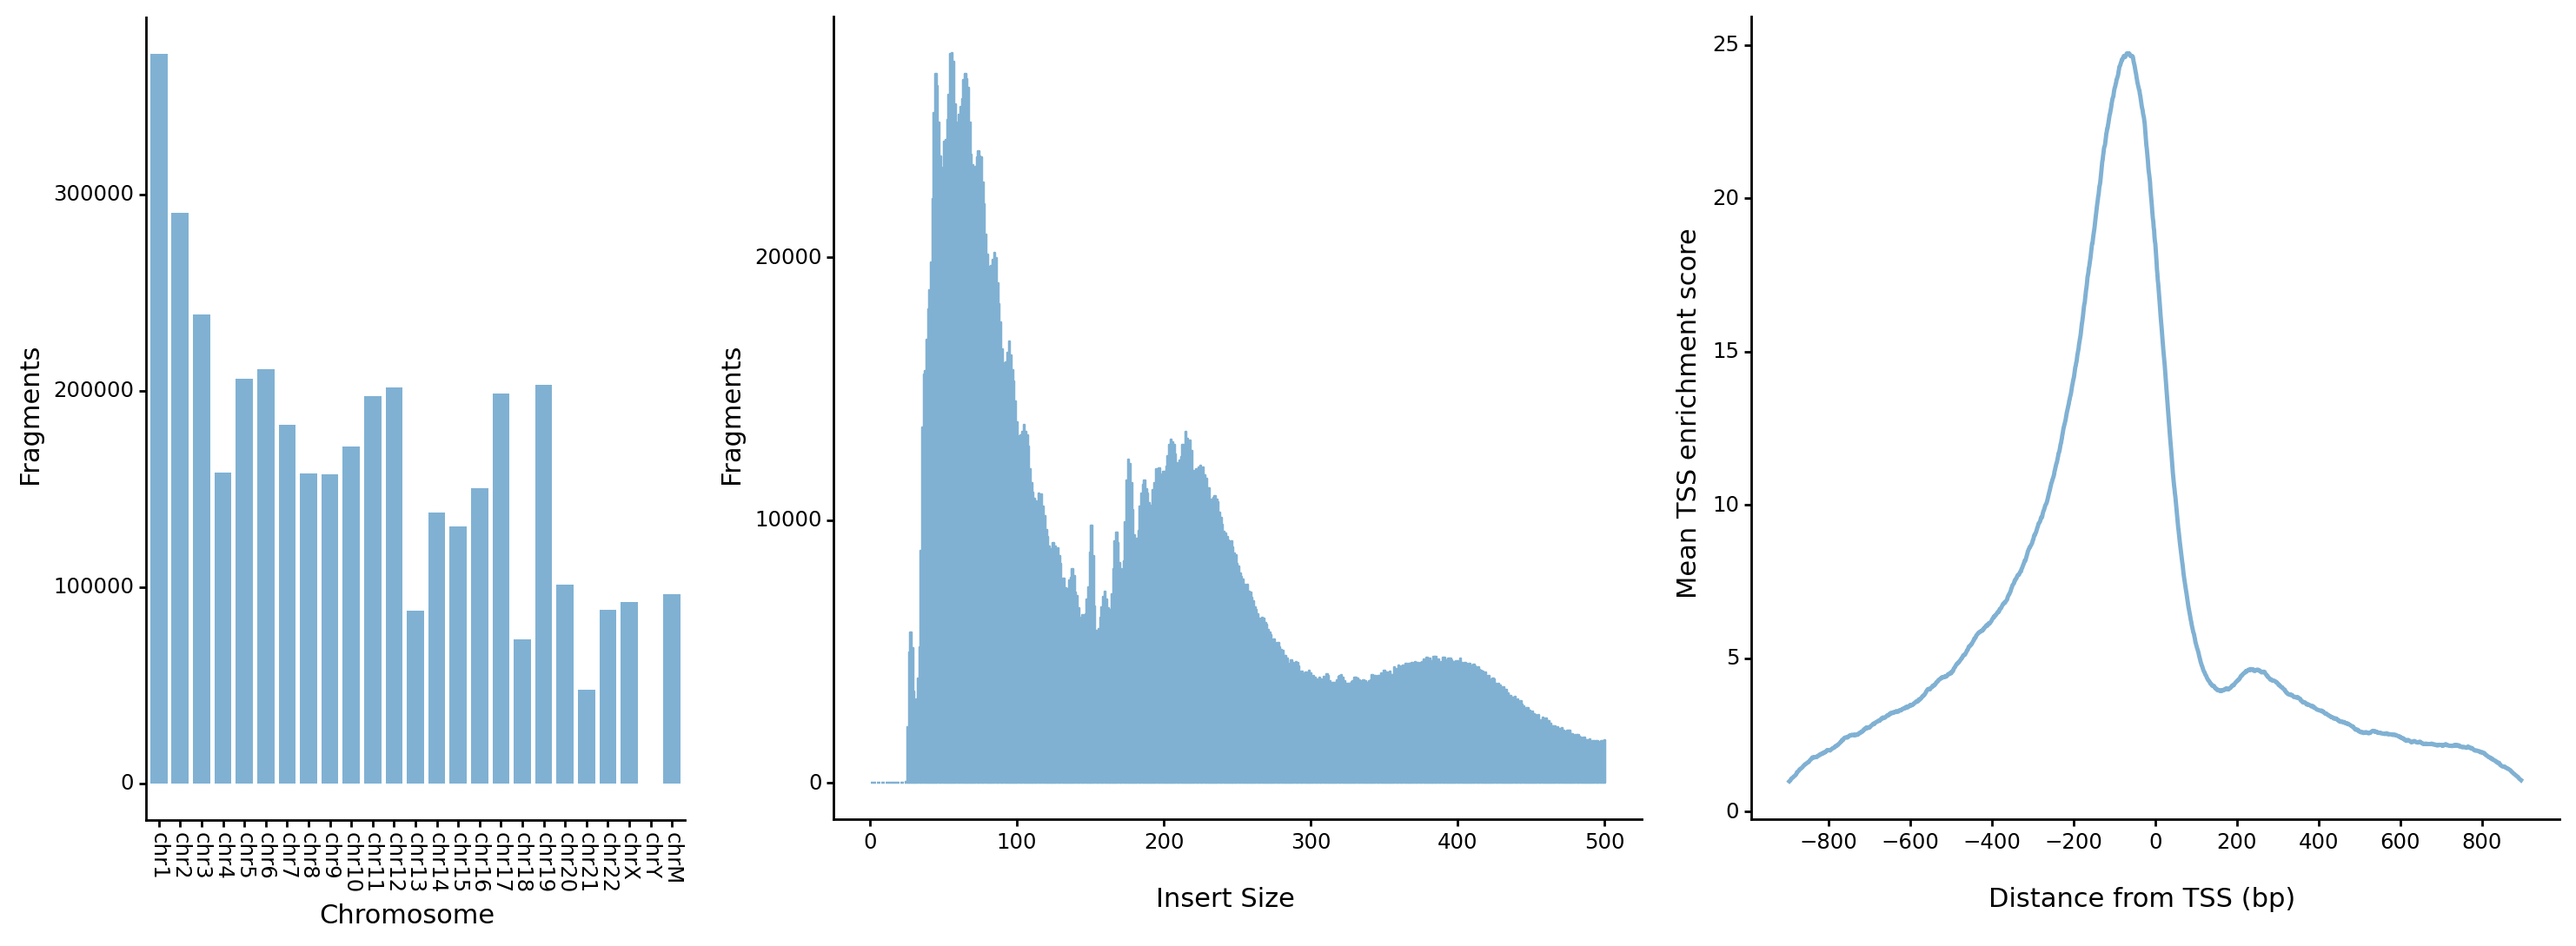
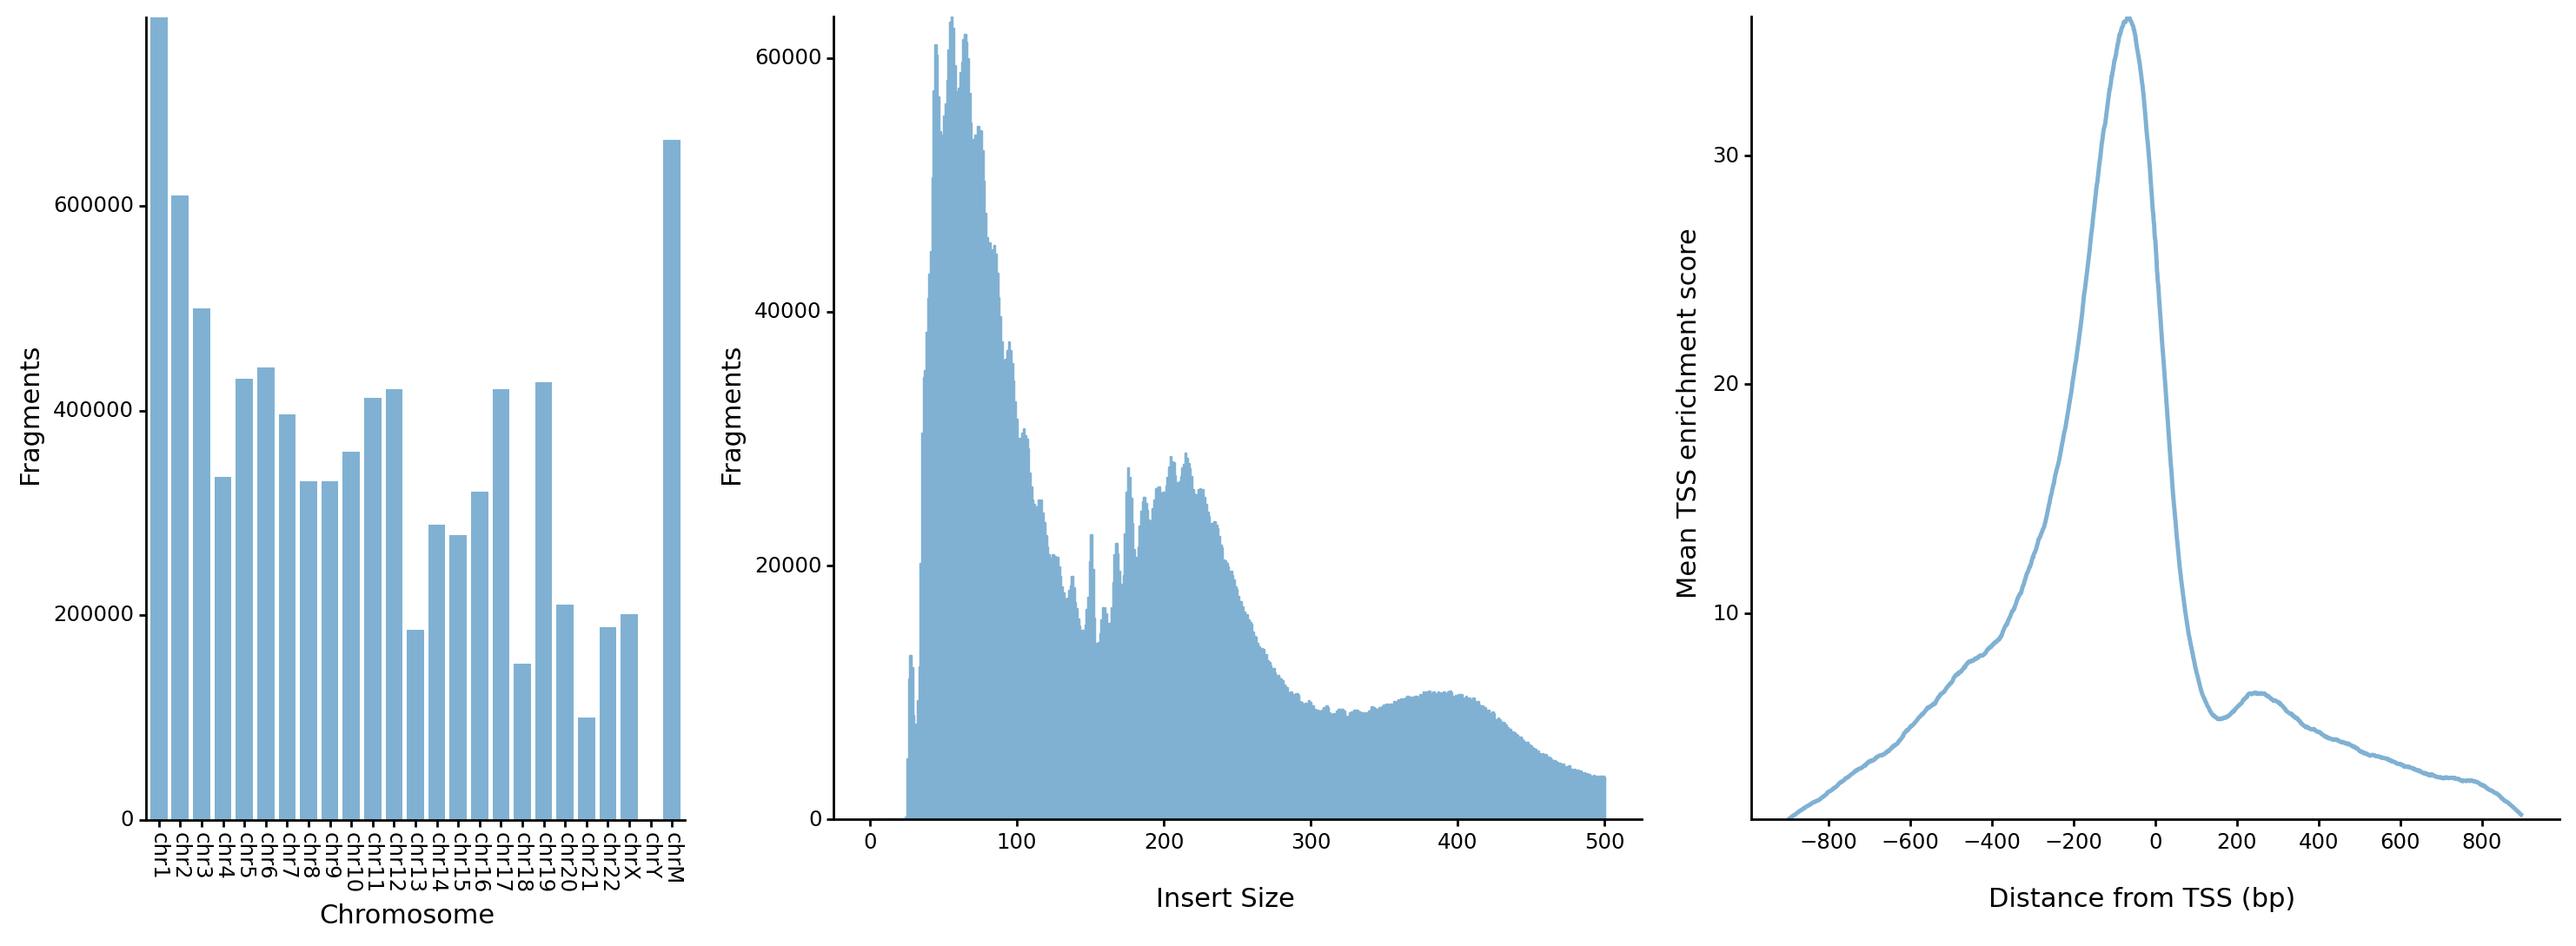
remove padding

diff --git a/ATACFragQC/__main__.py b/ATACFragQC/__main__.py
@@ -158,13 +158,13 @@ def bedScan(args):
         return
     if "a" in pic_list:
         ggsave(plot=ggplot(chr_count, aes(x="V1", y="V2"))+geom_bar(stat="identity", width=0.8, fill="#80B1D3")+
-            labs(x="Chromosome", y="Fragments")+
+            labs(x="Chromosome", y="Fragments")+scale_y_continuous(expand=(0, 0))+
             theme(plot_title=element_blank(), panel_background=element_blank(), axis_line=element_line(colour="black"), 
             axis_text_y=element_text(colour="black"), axis_text_x=element_text(angle=270, hjust=0.3, vjust=1, colour="black")), 
             width=4, height=6, dpi=200, filename=pathname+".tmpa.png", limitsize=False, verbose=False)
     if "b" in pic_list:
         ggsave(plot=ggplot(len_count, aes(x="V1", y="V2"))+geom_bar(stat="identity", colour="#80B1D3", fill="#80B1D3")+
-            labs(x="\nInsert Size", y="Fragments")+
+            labs(x="\nInsert Size", y="Fragments")+scale_y_continuous(expand=(0, 0))+
             theme(plot_title=element_blank(), panel_background=element_blank(), axis_line=element_line(colour="black"), axis_text=element_text(colour="black")), 
             width=6, height=6, dpi=200, filename=pathname+".tmpb.png", limitsize=False, verbose=False)
     if "c" in pic_list:
@@ -179,7 +179,7 @@ def bedScan(args):
             break_length = 200
         break_range = max(1, args.widthtss//break_length)*break_length
         ggsave(plot=ggplot(dist_count, aes(x="V1", y="V2"))+geom_line(size=1, colour="#80B1D3")+
-            labs(x="\nDistance from TSS (bp)", y="Mean TSS enrichment score")+
+            labs(x="\nDistance from TSS (bp)", y="Mean TSS enrichment score")+scale_y_continuous(expand=(0, 0))+
             scale_x_continuous(breaks=range(-break_range, break_range+1, break_length))+
             theme(plot_title=element_blank(), panel_background=element_blank(), axis_line=element_line(colour="black"), axis_text=element_text(colour="black")), 
             width=6, height=6, dpi=200, filename=pathname+".tmpc.png", limitsize=False, verbose=False)

diff --git a/ATACFragQC/__init__.py b/ATACFragQC/__init__.py
@@ -1,3 +1,3 @@
 from __future__ import absolute_import
 
-__version__ = "0.4.3"
+__version__ = "0.4.4"

diff --git a/README.md b/README.md
@@ -4,7 +4,7 @@ The Python toolkits designed to control the fragment quality of Bulk/SingCell AT
 
 ## Installation
 ~~~
-python3 -m pip install ATACFragQC
+python3 -m pip install --upgrade ATACFragQC
 ~~~
 
 ## Usage
